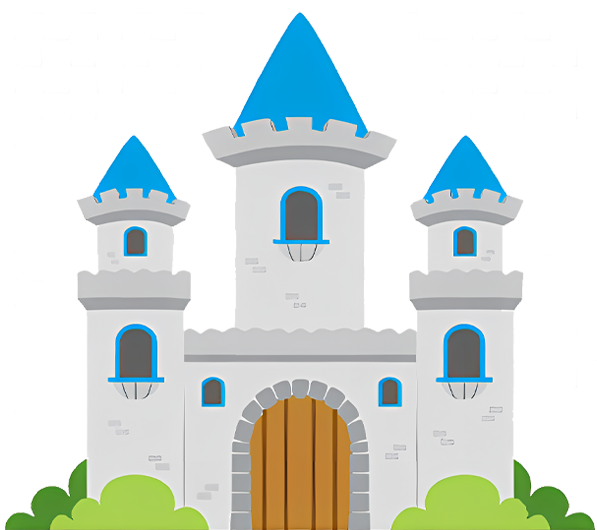
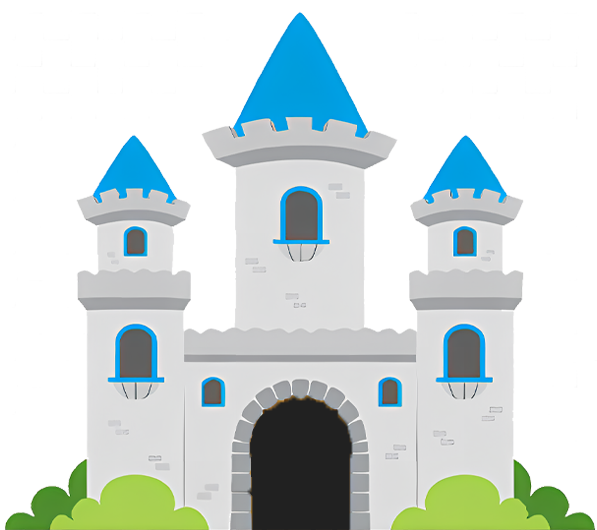
changed castle image

Changed region(s): [[0.392, 0.7245, 0.603, 1.0]]

diff --git a/ui/game.py b/ui/game.py
@@ -9,13 +9,14 @@ end = pyglet.graphics.Batch()
 sky = Sprite(sky_img, 0, 0, batch=frame)
 clouds = Base(clouds_img, 0, 300, frame)
 ground = Ground(0, 0, frame)
-ground2 = Ground(8000, 0, frame)
+ground2 = Ground(7500, 0, frame)
 castle = Base(castle_img, 8000, 93, batch=frame)
+door = Sprite(door_img, 8000, 93)
 mountains = Base(mountains_img, 0, ground.height, batch=frame)
 mario = Mario(0, ground.height - 10, frame)
 
 coins = Coins(ground.height, frame)
-coins.create(random.randint(20, 40), 400, 8000)
+coins.create(random.randint(20, 30), 400, 7300)
 
 brick_pattern = ['________',
                  '______',
@@ -33,9 +34,9 @@ brick_x = [400, 1200, 2400, 3200, 4000, 5500, 6000, 6700, 7500]
 bricks = Bricks(brick_pattern, brick_x, [200] * len(brick_pattern), frame)
 bricks.create()
 
-enemy_x = [400, 1000, 1500, 1800, 1900, 2500, 2800, 3200, 3600, 4000, 4500,5000,
+enemy_x = [400, 1000, 1500, 1800, 1900, 2500, 2800, 3200, 3600, 4000, 4500, 5000,
            5300, 5700, 6000, 6400, 6900, 7300, 7700, 8000, 8300, 8600, 9000, 9100]
-enemies = Enemy(enemy_x, 83, frame)
+enemies = Enemy([700], 83, frame)
 
 theme.volume = 0.3
 theme.play()
@@ -57,16 +58,24 @@ lose_label = pyglet.text.Label("YOU \n LOST",
                                )
 
 lose_label.visible = False
+door.visible = False
 
 is_lose = False
+is_win = False
+is_stopped = False
+
 
 @game.event
 def on_draw():
+    global is_stopped
     game.clear()
     if not is_lose:
         frame.draw()
     score_label.draw()
     lose_label.draw()
+    door.draw()
+    if is_stopped:
+        mario.image = stand(0.35)[0]
 
 
 @game.event
@@ -79,39 +88,61 @@ def on_key_press(symbol, modifiers):
 def on_key_release(symbol, modifiers):
     mario.stop(symbol)
     ground.stop(symbol)
+    if not is_stopped and ground2.x <= 400:
+        mario.image = run(0.06)[0]
 
 
 def update(dt):
-    global points, is_lose
-    mario.jump(dt)
-    ground.attach(mountains, True)
-    ground.attach(clouds, False)
-    ground.attach(ground2, False)
-    ground.attach(castle, False)
-    mario.move(dt)
-    bricks.set(ground, mario)
-    points += coins.collected(mario, ground)
-    score_label.text = f'{points}'
-    enemies.move(50 * dt)
-
-    if mario.x >= 300.1:
-        mario.x = 300
-        ground.move(dt)
-        enemies.move(250 * dt)
-    elif mario.x <= 0:
-        mario.x = 0.1
+    global points, is_lose, is_win, is_stopped
+    door.x = castle.x
+    door.y = castle.y
+    if ground2.x <= 400:
+        if not is_stopped:
+            mario.x += 10 * dt
+            ground.x -= 170 * dt
+            ground2.x -= 170 * dt
+            castle.x -= 170 * dt
+            clouds.x -= 170 * dt
+            mountains.x -= 170 * dt
+    else:
+        mario.jump(dt)
+        ground.attach(mountains, True)
+        ground.attach(clouds, False)
+        ground.attach(ground2, False)
+        ground.attach(castle, False)
         mario.move(dt)
+        bricks.set(ground, mario)
+        points += coins.collected(mario, ground)
+        score_label.text = f'{points}'
+        enemies.move(50 * dt)
 
-    is_alive = True
-    for enemy in enemies.get():
-        if mario.is_dead(enemy):
-            is_alive = False
+        if mario.x >= 300.1:
+            mario.x = 300
+            ground.move(dt)
+            enemies.move(250 * dt)
+        elif mario.x <= 0:
+            mario.x = 0.1
+            mario.move(dt)
 
-    if not is_alive:
-        death_sfx.play()
+        is_alive = True
+        is_win = False
+        for enemy in enemies.get():
+            if mario.is_dead(enemy):
+                is_alive = False
+
+        if not is_alive:
+            death_sfx.play()
+            lose_label.visible = True
+            is_lose = True
+
+    if is_win:
         lose_label.visible = True
-        is_lose = True
+        mario.y = 93
+        door.visible = True
 
+    if mario.x + mario.width >= castle.x + (castle.width // 2) + 35:
+        is_stopped = True
+        is_win = True
 
 
 @game.event

diff --git a/utils/resources.py b/utils/resources.py
@@ -11,6 +11,7 @@ clouds_img = load(f'{MAIN_PATH}/clouds_pattern.png')
 brick_img = load(f'{MAIN_PATH}/brick.png')
 menu = load(f'{MENU_PATH}/menu.png')
 castle_img = load(f'{MAIN_PATH}/castle.png')
+door_img = load(f'{MAIN_PATH}/door.png')
 
 # Mario Image Paths
 run_path = glob.glob(pathname=f'{MARIO_PATH}/run/run*.png')
@@ -19,6 +20,7 @@ run_right_path = [path.replace('\\', '/') for path in run_path]
 run_left_path = [path.replace('/run\\', '/run/left/') for path in run_path]
 stand_right_path = [f'{MARIO_PATH}/stand/stand1.png', f'{MARIO_PATH}/stand/stand2.png']
 stand_left_path = [f'{MARIO_PATH}/stand/left/stand1.png', f'{MARIO_PATH}/stand/left/stand2.png']
+enemy_path = [f'{ASSETS_PATH}/images/goomba/g1.png', f'{ASSETS_PATH}/images/goomba/g2.png']
 
 coin_path = glob.glob(pathname=f'{ASSETS_PATH}/images/coins/c*.png')
 coins_path = [path.replace('\\', '/') for path in coin_path]
@@ -28,6 +30,7 @@ run_left = [load(path) for path in run_left_path]
 stand_right = [load(path) for path in stand_right_path]
 stand_left = [load(path) for path in stand_left_path]
 coin = [load(path) for path in coins_path]
+enemy_img = [load(path) for path in enemy_path]
 
 
 def run(duration):
@@ -41,4 +44,6 @@ def stand(duration):
     left = animation.Animation.from_image_sequence(stand_left, duration)
     return right, left
 
+
 coin_anim = animation.Animation.from_image_sequence(coin, 0.1)
+enemy_anim = animation.Animation.from_image_sequence(enemy_img, 0.1)

diff --git a/assets/scripts/stand_images.py b/assets/scripts/stand_images.py
@@ -1,5 +1,5 @@
 from run_images import scale_path, ASSETS_PATH
 from utils.utils import image_scale
 
-image_scale(f'{scale_path}/brick.png', f'{ASSETS_PATH}/images/main/brick.png', scale=0.04)
-#image_scale(f'{scale_path}/stand/stan2.png', f'{MARIO_PATH}/stand/stand2.png', scale=0.2)
+image_scale(f'{scale_path}/g1.png', f'{ASSETS_PATH}/images/goomba/g1.png', scale=0.06)
+image_scale(f'{scale_path}/g2.png', f'{ASSETS_PATH}/images/goomba/g2.png', scale=0.06)

diff --git a/utils/paths.py b/utils/paths.py
@@ -1,4 +1,4 @@
-ASSETS_PATH = 'C:/Users/DELL/PycharmProjects/Mario-Quest/assets'
+ASSETS_PATH = 'C:/Users/Administrator/PycharmProjects/Mario-Quest/assets'
 MENU_PATH = f'{ASSETS_PATH}/images/menu'
 MAIN_PATH = f'{ASSETS_PATH}/images/main'
 MARIO_PATH = f'{ASSETS_PATH}/images/mario'

diff --git a/ui/sprites.py b/ui/sprites.py
@@ -199,7 +199,7 @@ class Enemy:
     def __init__(self, xs, y, batch):
         self.enemies = []
         for x in xs:
-            en = Base(brick_img, x, y, batch)
+            en = Base(enemy_anim, x, y, batch)
             self.enemies.append(en)
 
     def move(self, speed):
